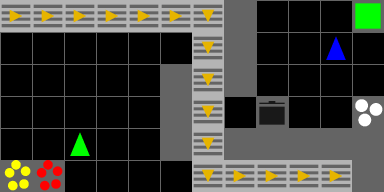
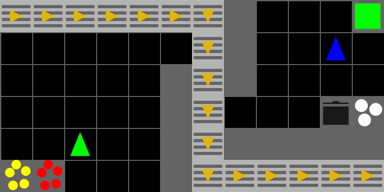
Add coordinated temporal conveyor layout

diff --git a/jaxmarl/environments/overcooked_v3/layouts.py b/jaxmarl/environments/overcooked_v3/layouts.py
@@ -167,7 +167,7 @@ coordinated_temporal_conveyor = """
 >>>>>>vW   X
       vW  A 
      WvW    
-     Wv    B
+     Wv   PB
   A  WvWWWWW
 01   Wv>>>>>
 """
